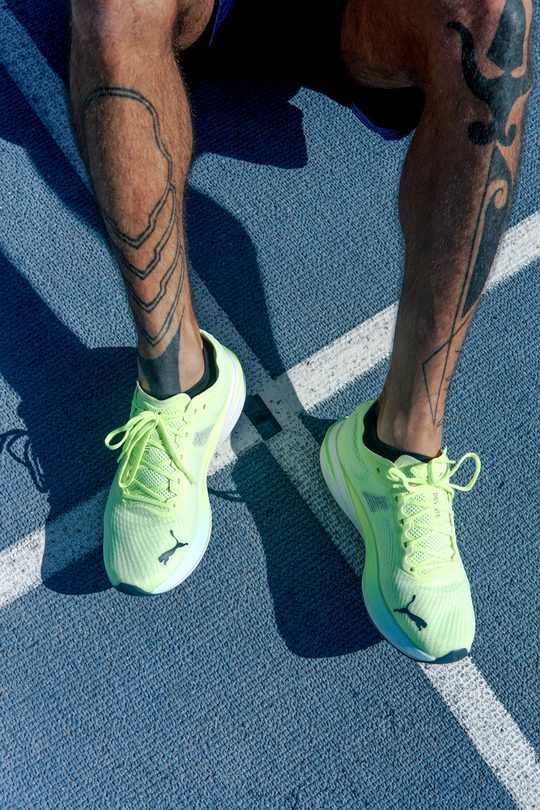
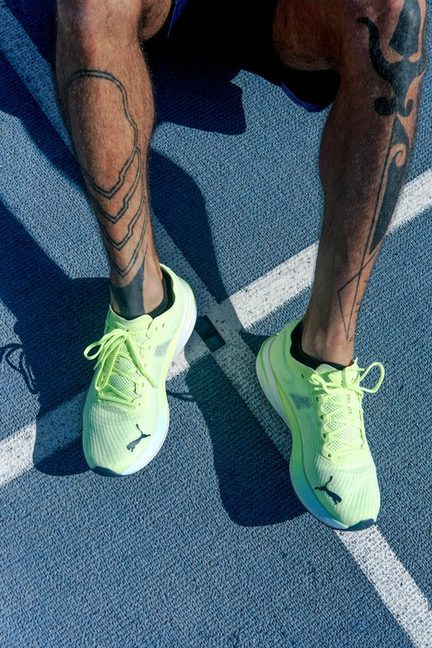
perf: shrink the stock photos to 432 px on their short side
The 25 stock photos took 43 MB decoded once a session; at 432 px they
take 27 MB (1.4 MB in the app, from 2.0 MB). Compared at the most
demanding size, a wide photo behind a story's thumbnail on the iPhone,
they look the same.

Changed region(s): [[0.8426, 0.5556, 0.8727, 0.6173]]

diff --git a/src/editor/stock-photos.ts b/src/editor/stock-photos.ts
@@ -8,9 +8,9 @@ import type { LayerImage } from './template-scene';
 
 /**
  * Our own photos (Pexels, see `assets/images/stock/SOURCES.md`), which every design's thumbnail and
- * every tile of a picture show, so we know how each one looks: never the user's. Small copies, 540 px
- * on their short side, enough for a thumbnail: all of them take about 1 MB in the app and 20 MB once
- * decoded, only on the screens that show them.
+ * every tile of a picture show, so we know how each one looks: never the user's. Small copies, 432 px
+ * on their short side, enough for a thumbnail: all of them take about 1.4 MB in the app and 27 MB
+ * once decoded, once a session.
  */
 const STOCK_FILES = {
   brickWall: require('../../assets/images/stock/brick-wall.jpg'),

diff --git a/assets/images/stock/SOURCES.md b/assets/images/stock/SOURCES.md
@@ -1,31 +1,31 @@
 # Stock photos
 
-The photos of the designs' thumbnails, from Pexels (free license, no attribution required). Each is the original with its orientation applied, in sRGB, 540 px on its short side, JPEG 82, without metadata.
+The photos of the designs' thumbnails, from Pexels (free license, no attribution required). Each is the original with its orientation applied, in sRGB, 432 px on its short side (Lanczos), JPEG 82, without metadata: 27 MB decoded for all of them, where 540 px took 43 MB and looked the same on a thumbnail.
 
-| File                  | What it shows                             | Pexels author                  | Pexels photo                                |
-| --------------------- | ----------------------------------------- | ------------------------------ | ------------------------------------------- |
-| `brick-wall.jpg`      | two runners by a brick wall               | ketut-subiyanto                | https://www.pexels.com/photo/5036937/       |
-| `concrete-wall.jpg`   | a runner by a big concrete wall           | garrison-gao-56316964          | https://www.pexels.com/photo/7883944/       |
-| `forest-bridge.jpg`   | a runner on a wooden bridge in a forest   | alin-serban-1867310            | https://www.pexels.com/photo/32798747/      |
-| `forest-trail.jpg`    | a runner far off on a forest trail        | alin-serban-1867310            | https://www.pexels.com/photo/32798745/      |
-| `mono-sprinter.jpg`   | a sprinter from behind, black and white   | ciro-palomba-1275986148        | https://www.pexels.com/photo/31668409/      |
-| `mono-stride.jpg`     | legs in mid stride, black and white       | matreding                      | https://www.pexels.com/photo/33995258/      |
-| `mountain-runner.jpg` | a runner in the mountains, square, 720 px | Pexels                         | the app's first sample, source not recorded |
-| `runway.jpg`          | a runner from behind on a runway          | wal_-172619-2156618639         | https://www.pexels.com/photo/36122097/      |
-| `stadium-field.jpg`   | a runner on a stadium's field at sunset   | marina-endzhirgli-725723515    | https://www.pexels.com/photo/30311713/      |
-| `street-crossing.jpg` | two runners' legs over yellow road marks  | farizarrazy                    | https://www.pexels.com/photo/39074079/      |
-| `track-shadow.jpg`    | a runner's own shadow on an orange track  | prateekkatyal                  | https://www.pexels.com/photo/38207923/      |
-| `track-shoes.jpg`     | neon shoes on a blue track                | caique-araujo-101156227        | https://www.pexels.com/photo/15875677/      |
-| `woodland-path.jpg`   | a runner from behind on a woodland path   | chris-f-38966                  | https://www.pexels.com/photo/10084297/      |
-| `trail-ridge.jpg`     | a trail runner on a green mountain ridge  | vanngo-ng-105653827            | https://www.pexels.com/photo/33874842/      |
-| `foggy-hill.jpg`      | a runner climbing a grassy hill into fog  | alin-serban-1867310            | https://www.pexels.com/photo/30742916/      |
-| `dusk-silhouette.jpg` | a runner's silhouette against a grey sky  | taiyesalawu                    | https://www.pexels.com/photo/33491430/      |
-| `muddy-legs.jpg`      | muddy legs and shoes on a wet trail       | ilarawan-photography-464810378 | https://www.pexels.com/photo/35206081/      |
-| `sunrise-cyclist.jpg` | a cyclist in a city street at sunrise     | th2city                        | https://www.pexels.com/photo/8578425/       |
-| `mountain-road.jpg`   | a cyclist on a winding mountain road      | david-eckernforde-1933620728   | https://www.pexels.com/photo/28810901/      |
-| `seaside-ride.jpg`    | cyclists on a seafront road with palms    | eat-sleep-cycle-1212410864     | https://www.pexels.com/photo/22435505/      |
-| `riverside-run.jpg`   | a runner by a river under a skyline       | ketut-subiyanto                | https://www.pexels.com/photo/5037303/       |
-| `beach-sunset.jpg`    | a runner on a beach at sunset             | naimislampranto                | https://www.pexels.com/photo/27854669/      |
-| `shore-splash.jpg`    | legs splashing along the shore            | kokorevas                      | https://www.pexels.com/photo/2968388/       |
-| `harbour-swim.jpg`    | a swimmer far off before a city skyline   | hamidurgut                     | https://www.pexels.com/photo/33942905/      |
-| `sea-swimmer.jpg`     | a swimmer in an orange cap in the sea     | thales-araujo-99818442         | https://www.pexels.com/photo/19421169/      |
+| File                  | What it shows                            | Pexels author                  | Pexels photo                                |
+| --------------------- | ---------------------------------------- | ------------------------------ | ------------------------------------------- |
+| `brick-wall.jpg`      | two runners by a brick wall              | ketut-subiyanto                | https://www.pexels.com/photo/5036937/       |
+| `concrete-wall.jpg`   | a runner by a big concrete wall          | garrison-gao-56316964          | https://www.pexels.com/photo/7883944/       |
+| `forest-bridge.jpg`   | a runner on a wooden bridge in a forest  | alin-serban-1867310            | https://www.pexels.com/photo/32798747/      |
+| `forest-trail.jpg`    | a runner far off on a forest trail       | alin-serban-1867310            | https://www.pexels.com/photo/32798745/      |
+| `mono-sprinter.jpg`   | a sprinter from behind, black and white  | ciro-palomba-1275986148        | https://www.pexels.com/photo/31668409/      |
+| `mono-stride.jpg`     | legs in mid stride, black and white      | matreding                      | https://www.pexels.com/photo/33995258/      |
+| `mountain-runner.jpg` | a runner in the mountains, square        | Pexels                         | the app's first sample, source not recorded |
+| `runway.jpg`          | a runner from behind on a runway         | wal_-172619-2156618639         | https://www.pexels.com/photo/36122097/      |
+| `stadium-field.jpg`   | a runner on a stadium's field at sunset  | marina-endzhirgli-725723515    | https://www.pexels.com/photo/30311713/      |
+| `street-crossing.jpg` | two runners' legs over yellow road marks | farizarrazy                    | https://www.pexels.com/photo/39074079/      |
+| `track-shadow.jpg`    | a runner's own shadow on an orange track | prateekkatyal                  | https://www.pexels.com/photo/38207923/      |
+| `track-shoes.jpg`     | neon shoes on a blue track               | caique-araujo-101156227        | https://www.pexels.com/photo/15875677/      |
+| `woodland-path.jpg`   | a runner from behind on a woodland path  | chris-f-38966                  | https://www.pexels.com/photo/10084297/      |
+| `trail-ridge.jpg`     | a trail runner on a green mountain ridge | vanngo-ng-105653827            | https://www.pexels.com/photo/33874842/      |
+| `foggy-hill.jpg`      | a runner climbing a grassy hill into fog | alin-serban-1867310            | https://www.pexels.com/photo/30742916/      |
+| `dusk-silhouette.jpg` | a runner's silhouette against a grey sky | taiyesalawu                    | https://www.pexels.com/photo/33491430/      |
+| `muddy-legs.jpg`      | muddy legs and shoes on a wet trail      | ilarawan-photography-464810378 | https://www.pexels.com/photo/35206081/      |
+| `sunrise-cyclist.jpg` | a cyclist in a city street at sunrise    | th2city                        | https://www.pexels.com/photo/8578425/       |
+| `mountain-road.jpg`   | a cyclist on a winding mountain road     | david-eckernforde-1933620728   | https://www.pexels.com/photo/28810901/      |
+| `seaside-ride.jpg`    | cyclists on a seafront road with palms   | eat-sleep-cycle-1212410864     | https://www.pexels.com/photo/22435505/      |
+| `riverside-run.jpg`   | a runner by a river under a skyline      | ketut-subiyanto                | https://www.pexels.com/photo/5037303/       |
+| `beach-sunset.jpg`    | a runner on a beach at sunset            | naimislampranto                | https://www.pexels.com/photo/27854669/      |
+| `shore-splash.jpg`    | legs splashing along the shore           | kokorevas                      | https://www.pexels.com/photo/2968388/       |
+| `harbour-swim.jpg`    | a swimmer far off before a city skyline  | hamidurgut                     | https://www.pexels.com/photo/33942905/      |
+| `sea-swimmer.jpg`     | a swimmer in an orange cap in the sea    | thales-araujo-99818442         | https://www.pexels.com/photo/19421169/      |
